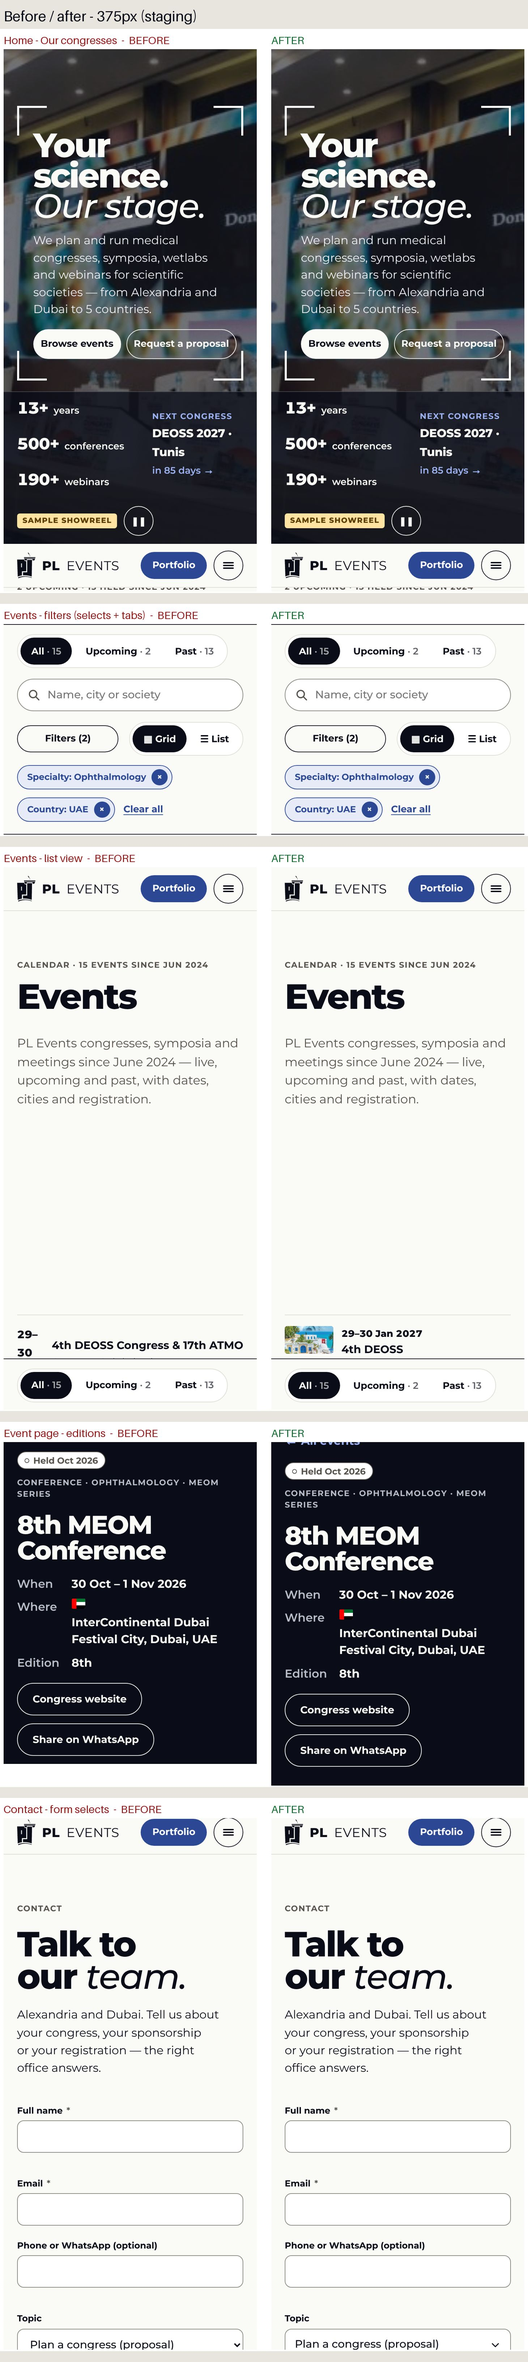
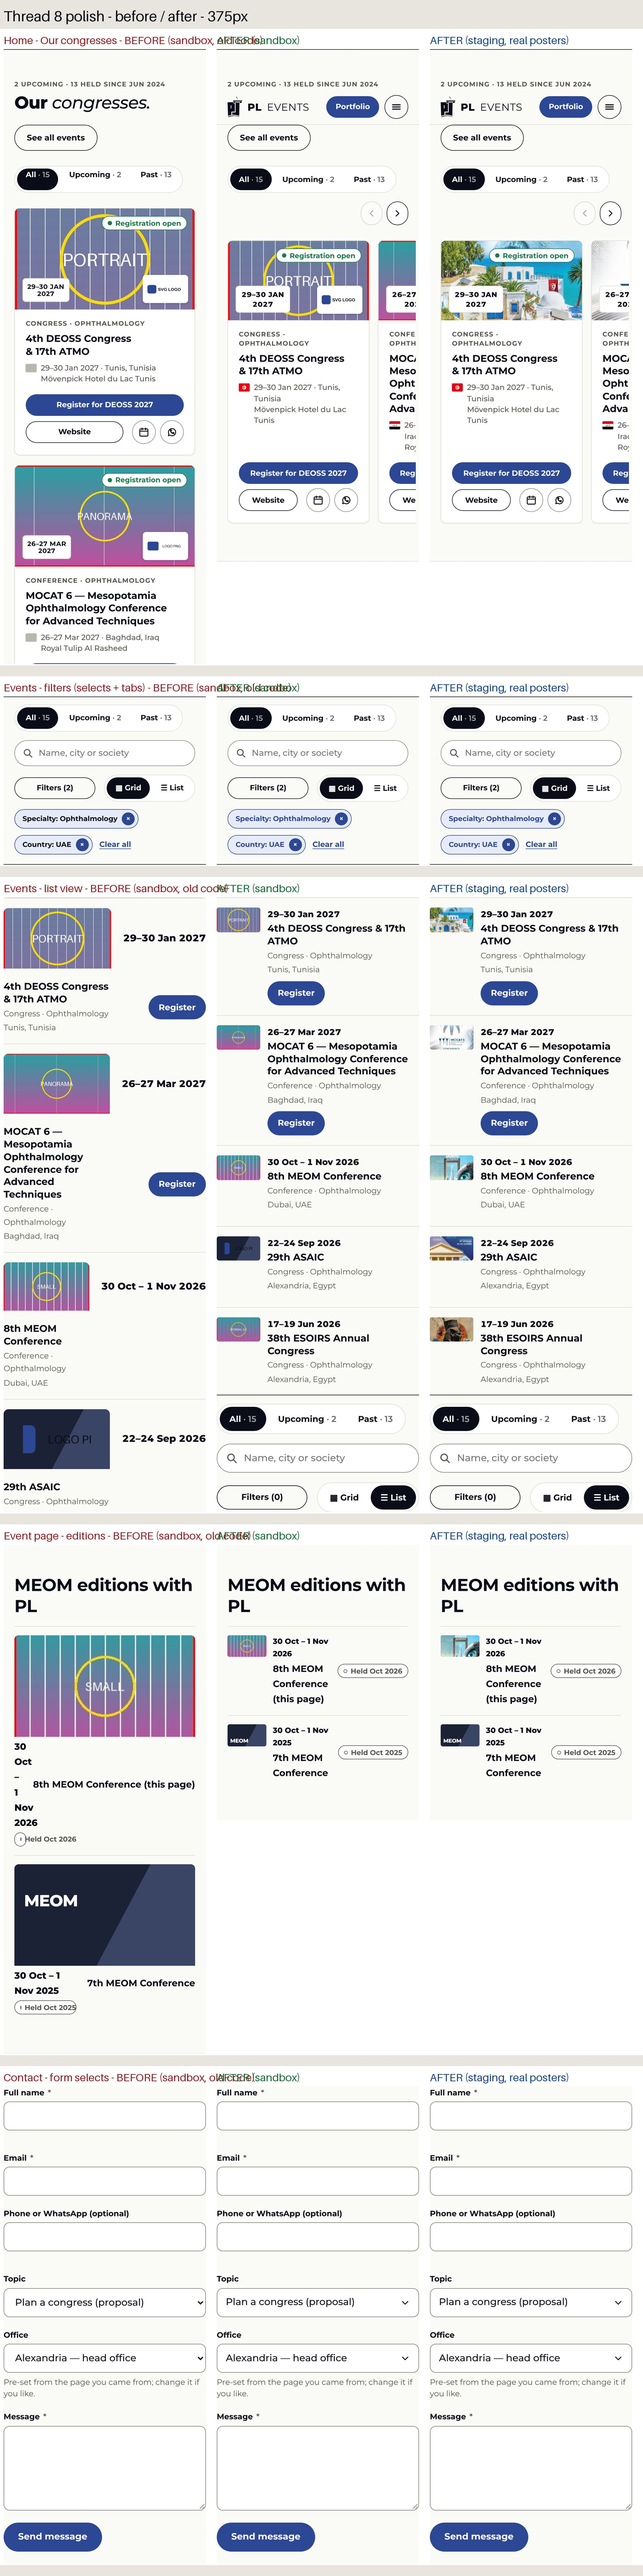
Thread 8 polish: own select chevron, centred tabs, list + editions thumbnails, no overlay on real posters, one-size date box, Home manual row (replaces 3.4a H3), iris CLS fix; decision A (only congresses + conferences count, 15 -> 13); docs + before/after
Claude-Session: https://claude.ai/code/session_01EKJkHzP4dRvL7ACMynXApJ

diff --git a/wp-content/themes/hello-pl-child/assets/css/pl.css b/wp-content/themes/hello-pl-child/assets/css/pl.css
@@ -601,13 +601,16 @@ html.pl-iris #iris { transform: scale(.25); }
 /* 2. List rows + event editions: a 16:9 poster thumbnail beside the date (real poster or the
    series' typographic poster in miniature). On phones: thumb | date over name | badge/actions
    (also fixes the editions rows that pushed the badge 43px off a 375px screen). */
-.pl .poster.mini { display: block; width: 120px; aspect-ratio: 16 / 9; border-radius: 6px; flex: none; }
+.pl .poster.mini { display: block; width: 112px; aspect-ratio: 16 / 9; border-radius: 6px; flex: none; }
 .pl .poster.mini .pw { left: 8px; right: 8px; top: auto; bottom: 7px; font-size: 15px; line-height: 1; letter-spacing: -.02em; }
 .pl .poster.mini .pw.long { font-size: 11px; }
 .pl .poster.mini::after { display: none; }
-.pl .erow.r-ev { grid-template-columns: 120px 200px minmax(0, 1fr) 180px 150px auto; }
+.pl .erow.r-ev { grid-template-columns: 112px max-content minmax(0, 1fr) 150px 140px auto; column-gap: 18px; }
+.pl .erow.r-ev .r-dt { white-space: nowrap; font-size: 15px !important; }
+.pl .erow.r-ev .r-pl { font-size: 13px !important; }
 .pl .erow.erow-ed { grid-template-columns: 120px 200px minmax(0, 1fr) auto; }
-@media (max-width: 1023px) and (min-width: 768px) { .pl .erow.r-ev { grid-template-columns: 120px 150px minmax(0, 1fr) auto; } .pl .erow.r-ev .r-pl, .pl .erow.r-ev .r-bd { display: none !important; } }
+@media (max-width: 1279px) and (min-width: 1024px) { .pl .erow.r-ev { grid-template-columns: 112px max-content minmax(0, 1fr) 140px auto; } .pl .erow.r-ev .r-pl { display: none !important; } .pl .erow.r-ev .r-nm .m-only { display: revert; } }
+@media (max-width: 1023px) and (min-width: 768px) { .pl .erow.r-ev { grid-template-columns: 96px max-content minmax(0, 1fr) auto; column-gap: 14px; } .pl .erow.r-ev .poster.mini { width: 96px; } .pl .erow.r-ev .r-pl, .pl .erow.r-ev .r-bd { display: none !important; } .pl .erow.r-ev .r-nm .m-only { display: revert; } }
 @media (max-width: 767px) {
   .pl .poster.mini { width: 72px; border-radius: 4px; }
   .pl .poster.mini .pw { font-size: 10px; left: 5px; right: 5px; bottom: 5px; }
@@ -616,7 +619,8 @@ html.pl-iris #iris { transform: scale(.25); }
   .pl .erow.r-ev .r-th, .pl .erow.erow-ed .r-th { grid-row: span 2; align-self: start; }
   .pl .erow.r-ev .r-dt, .pl .erow.erow-ed .r-dt { grid-column: 2; font-size: 14px !important; }
   .pl .erow.r-ev .r-nm { grid-column: 2; }
-  .pl .erow.r-ev .r-ac { grid-column: 3; grid-row: 1 / span 2; }
+  .pl .erow.r-ev { grid-template-columns: 72px minmax(0, 1fr); }
+  .pl .erow.r-ev .r-ac { grid-column: 2; justify-content: flex-start !important; margin-top: 6px; }
   .pl .erow.erow-ed > a { grid-column: 2; }
   .pl .erow.erow-ed > .badge { grid-column: 3; grid-row: 1 / span 2; }
 }

diff --git a/wp-content/themes/hello-pl-child/assets/css/src/wp.css b/wp-content/themes/hello-pl-child/assets/css/src/wp.css
@@ -209,13 +209,16 @@ html.pl-iris #iris { transform: scale(.25); }
 /* 2. List rows + event editions: a 16:9 poster thumbnail beside the date (real poster or the
    series' typographic poster in miniature). On phones: thumb | date over name | badge/actions
    (also fixes the editions rows that pushed the badge 43px off a 375px screen). */
-.pl .poster.mini { display: block; width: 120px; aspect-ratio: 16 / 9; border-radius: 6px; flex: none; }
+.pl .poster.mini { display: block; width: 112px; aspect-ratio: 16 / 9; border-radius: 6px; flex: none; }
 .pl .poster.mini .pw { left: 8px; right: 8px; top: auto; bottom: 7px; font-size: 15px; line-height: 1; letter-spacing: -.02em; }
 .pl .poster.mini .pw.long { font-size: 11px; }
 .pl .poster.mini::after { display: none; }
-.pl .erow.r-ev { grid-template-columns: 120px 200px minmax(0, 1fr) 180px 150px auto; }
+.pl .erow.r-ev { grid-template-columns: 112px max-content minmax(0, 1fr) 150px 140px auto; column-gap: 18px; }
+.pl .erow.r-ev .r-dt { white-space: nowrap; font-size: 15px !important; }
+.pl .erow.r-ev .r-pl { font-size: 13px !important; }
 .pl .erow.erow-ed { grid-template-columns: 120px 200px minmax(0, 1fr) auto; }
-@media (max-width: 1023px) and (min-width: 768px) { .pl .erow.r-ev { grid-template-columns: 120px 150px minmax(0, 1fr) auto; } .pl .erow.r-ev .r-pl, .pl .erow.r-ev .r-bd { display: none !important; } }
+@media (max-width: 1279px) and (min-width: 1024px) { .pl .erow.r-ev { grid-template-columns: 112px max-content minmax(0, 1fr) 140px auto; } .pl .erow.r-ev .r-pl { display: none !important; } .pl .erow.r-ev .r-nm .m-only { display: revert; } }
+@media (max-width: 1023px) and (min-width: 768px) { .pl .erow.r-ev { grid-template-columns: 96px max-content minmax(0, 1fr) auto; column-gap: 14px; } .pl .erow.r-ev .poster.mini { width: 96px; } .pl .erow.r-ev .r-pl, .pl .erow.r-ev .r-bd { display: none !important; } .pl .erow.r-ev .r-nm .m-only { display: revert; } }
 @media (max-width: 767px) {
   .pl .poster.mini { width: 72px; border-radius: 4px; }
   .pl .poster.mini .pw { font-size: 10px; left: 5px; right: 5px; bottom: 5px; }
@@ -224,7 +227,8 @@ html.pl-iris #iris { transform: scale(.25); }
   .pl .erow.r-ev .r-th, .pl .erow.erow-ed .r-th { grid-row: span 2; align-self: start; }
   .pl .erow.r-ev .r-dt, .pl .erow.erow-ed .r-dt { grid-column: 2; font-size: 14px !important; }
   .pl .erow.r-ev .r-nm { grid-column: 2; }
-  .pl .erow.r-ev .r-ac { grid-column: 3; grid-row: 1 / span 2; }
+  .pl .erow.r-ev { grid-template-columns: 72px minmax(0, 1fr); }
+  .pl .erow.r-ev .r-ac { grid-column: 2; justify-content: flex-start !important; margin-top: 6px; }
   .pl .erow.erow-ed > a { grid-column: 2; }
   .pl .erow.erow-ed > .badge { grid-column: 3; grid-row: 1 / span 2; }
 }

diff --git a/docs/Roadmap-Checklist.md b/docs/Roadmap-Checklist.md
@@ -4,7 +4,7 @@
 > **Threads:** one thread per group below (not per step). Open a new thread early if the current one gets long; the Step Summaries in the Project carry the context.
 > Last updated: 6 Nov 2026 (Thread 8)
 
-**Now:** end of Thread 8 (6 Nov 2026). ✅ 4.5 Forms · ✅ 5.1 Final copy · ✅ 5.3 SEO (301 map ready for launch) · ✅ hero fix + image fit (every image fits its frame) · ⏳ 4.4: only Sara's phone-check result is missing · open decision: "Counts as a congress" for symposium + forum (A/B) → **Next: Thread 9 — Step 6.1 Independent QA** (5.2 data entry is PL's, after the reveal).
+**Now:** end of Thread 8 (6 Nov 2026). ✅ 4.5 Forms · ✅ 5.1 Final copy · ✅ 5.3 SEO (301 map ready for launch) · ✅ hero fix + image fit + UI polish (selects, tabs, list thumbnails, Home row) · ✅ decision A: only congresses + conferences count (15 → 13) · ⏳ 4.4: only Sara's phone-check result is missing → **Next: Thread 9 — Step 6.1 Independent QA** (5.2 data entry is PL's, after the reveal).
 
 ---
 
@@ -25,12 +25,10 @@
 Open **claude.ai/code** → repo `SaraAmrousy/pl-events` (branch `main`) → environment `pl-events`.
 ```
 Thread 9 — Phase 6 QA & launch (6.1–6.3) — Claude Code.
-اقرا CLAUDE.md وبعدين docs/PL-Events-Project-Instructions.md و docs/Roadmap-Checklist.md و docs/Step-4.4-Pages.md و docs/Step-4.4-Image-Fit.md و docs/Step-5.1-Final-Copy.md و docs/Step-5.3-SEO.md.
-الأول قفّل اللي فاضل:
-1. 4.4 — نتيجة فحص الموبايل: [اكتبي النتيجة هنا].
-2. قرار "Counts as a congress" للـ symposium والـ forum: [A يتقفل / B يفضل].
-بعدها 6.1 — Independent QA (skill pl-content-qa): a11y + performance (375 / 768 / 1280، Full / Light / Reduced) + editor test على saraamrousy.net/pl (منها: رفع صورة صغيرة → الملاحظة الصفرا، وSVG).
-ثم 6.2 — Editor handover (دليل للموظف بالإنجليزي، خطوة بخطوة من wp-admin، فيه مقاسات الصور).
+اقرا CLAUDE.md وبعدين docs/PL-Events-Project-Instructions.md و docs/Roadmap-Checklist.md و docs/Step-4.4-Pages.md و docs/Step-4.4-Image-Fit.md و docs/Step-4.4-Polish.md و docs/Step-5.1-Final-Copy.md و docs/Step-5.3-SEO.md.
+الأول قفّل 4.4 — نتيجة فحص الموبايل (iPhone Safari + Android Chrome، ومعاها الـ filters في Safari): [اكتبي النتيجة هنا].
+بعدها 6.1 — Independent QA (skill pl-content-qa): a11y + performance (375 / 768 / 1280، Full / Light / Reduced) + editor test على saraamrousy.net/pl (منها: رفع صورة صغيرة → الملاحظة الصفرا، وSVG، وصف الـ Home بالكيبورد).
+ثم 6.2 — Editor handover (دليل للموظف بالإنجليزي، خطوة بخطوة من wp-admin، فيه مقاسات الصور وEvent types / Counts as a congress).
 6.3 — Launch checklist: اكتبه بس (فيه deploy/launch/redirects.csv + check-redirects.py، والـ 3 slugs الـ TBC من wp-sitemap.xml وقت الإطلاق)، ومتلمسش plevents.org قبل ما أوافق على كل خطوة.
 الـ staging يفضل noindex، والإيميلات كلها بتروحلي أنا. متكتبش أي باسورد في الشات.
 ```
@@ -65,7 +63,7 @@ Thread 9 — Phase 6 QA & launch (6.1–6.3) — Claude Code.
 - [x] **4.1 pl-events-core Plugin** (البلجن) — ✅ 5 Nov 2026 · on staging + seeded (15 / 7 / 5 checked live); editor test passed in the sandbox · Summary: `docs/Step-4.1-Plugin.md` · `pl-events-data-wp` · SCF; follow "Built to grow" (2.2 §8); test page + CPT sharing the `events` slug; new pieces from 3.1/3.4a/3.4b (`[pl_live_ribbon]`, `[pl_next_event layout="strip"]`, `[pl_company field=…]`, `[pl_stats layout="line|sponsor_line"]`, calendar search/Type/Grid–List, tabs All · Live now · Upcoming · Past with `default` attribute, `[pl_story layout="sticky explore"]`, `[pl_services layout="zigzag"]`, event-page mini map). Seed from `claude/pl-data.json`. **No `[pl_help]` (3.4b P1), no saved-list module (3.4a H4).**
 - [x] **4.2 Child Theme & Global Styles** (الثيم والستايل العام) — ✅ 5 Nov 2026 · Summary: `docs/Step-4.2-Child-Theme.md` (prototype CSS built into the theme, self-hosted Montserrat, 5 motion modules, Elementor Globals, `[pl_hero]`) · `pl-events-data-wp` · Tokens + classes from the 3.2 Design System (+ 3.4a H7 button fix) + motion modules from 3.4b §5 (no ScrollTrigger pin; Lenis Home only; `@view-transition`); confirm Elementor Free custom Global Colors
 - [x] **4.3 Header & Footer** (الهيدر والفوتر) — ✅ 5 Nov 2026 · Summary: `docs/Step-4.3-Header-Footer.md` (UAE HFB templates with `[pl_site_header]` / `[pl_site_footer]`; sticky; keyboard-tested) · `pl-events-data-wp` · Header: Home · Events · Services · About · Careers · Contact + Request a proposal + Portfolio (3.4a H5–H6)
-- [ ] **4.4 Pages in Elementor** (بناء الصفحات) — ⏳ built + live; LiteSpeed Cache on (purge from pl-events-core, tested); hero fix ✅ 6 Nov (media fills the hero at every size, tested at 6 sizes × 3 motion contexts) · image fit ✅ 6 Nov (every image in a fixed frame: photos cover, logos contain, crops + srcset, soft size note in wp-admin, safe SVG — `docs/Step-4.4-Image-Fit.md`) · **open: Sara's iPhone/Android check result** · Summary: `docs/Step-4.4-Pages.md` · `pl-events-data-wp` · Pages exported as Elementor template JSON by Claude Code and imported (Elementor Free Templates › Import — confirm the JSON format on the installed version); tested locally, then on the staging folder (noindex); confirm Elementor Free background video (self-hosted MP4 + poster)
+- [ ] **4.4 Pages in Elementor** (بناء الصفحات) — ⏳ built + live; LiteSpeed Cache on (purge from pl-events-core, tested); hero fix ✅ 6 Nov (media fills the hero at every size, tested at 6 sizes × 3 motion contexts) · image fit ✅ 6 Nov (every image in a fixed frame: photos cover, logos contain, crops + srcset, soft size note in wp-admin, safe SVG — `docs/Step-4.4-Image-Fit.md`) · UI polish ✅ 6 Nov (own select chevron, centred tabs, list + editions thumbnails, no overlay on real posters, one-size date box, Home = manual horizontal row replacing 3.4a H3 grid, iris CLS 0.536 → 0.03; "Counts as a congress" = A, 15 → 13 — `docs/Step-4.4-Polish.md`) · **open: Sara's iPhone/Android check result (also glance at Events filters in Safari)** · Summary: `docs/Step-4.4-Pages.md` · `pl-events-data-wp` · Pages exported as Elementor template JSON by Claude Code and imported (Elementor Free Templates › Import — confirm the JSON format on the installed version); tested locally, then on the staging folder (noindex); confirm Elementor Free background video (self-hosted MP4 + poster)
 - [x] **4.5 Forms** (الفورمز) — ✅ 6 Nov 2026 · authenticated SMTP (WP Mail SMTP + mailbox pl-staging@), both forms delivered to Sara's inbox, CV attached; CV direct URLs blocked · Summary: `docs/Step-4.5-Forms.md` · Summary: `docs/Step-4.5-Forms.md` (Forminator Contact + Careers/CV, topic+office pre-fill confirmed in Free, routing by office, staging mail → Sara only with a hard safety net) · `pl-events-data-wp` · Confirm Forminator Free URL pre-fill for topic/office (2.1 P4)
 
 ## Phase 5 — Content & SEO (المحتوى والـ SEO)

diff --git a/docs/Step-4.4-Polish.md b/docs/Step-4.4-Polish.md
@@ -1,0 +1,79 @@
+# Step 4.4 — UI polish + "Counts as a congress" decision (Thread 8, 6 Nov 2026)
+
+**Status: ✅ live on staging.** Seven items from Sara's review on staging (screenshots, 5 Nov). **4.4 stays open** only for Sara's iPhone/Android check.
+
+## Decisions recorded
+| # | Decision | Before → after |
+|---|---|---|
+| D-T8-1 | **"Counts as a congress" = A**: only *Congress* and *Conference* count. *Symposium* and *Forum* are switched off on staging (PL Website › Event types). *Course, Wetlab, Workshop, Webinar* were already off. New types now start **off**. The seed defaults are changed too, so a reseed can't undo this. | **15 → 13 congresses.** Home stats line: "13 congresses". About yearly tallies: 2 → 6 → 11 → **13**. No longer counted: 4th Saudi Retina Symposium (SRS 2026) and 11th El Safwa Annual Forum. About H1 ("…to 5 countries") is unchanged, because it counts countries. This closes the 5.1 critique #1. |
+| D-T8-2 | **Home "Our congresses." is one horizontal row, scrolled by hand only. It never autoplays** (Sara's decision). This **replaces 3.4a H3** (6-card grid). | 6 cards in a grid → all cards of the tab in one row. |
+
+## What changed
+1. **Selects (dropdowns)** — every `<select>` on the site (Events filters, Contact/Careers forms):
+   - `appearance:none` plus our own chevron SVG: 1.5px stroke, the same as the field border, ink colour, 14px from the edge, `padding-right:44px`;
+   - the chevron turns blue on focus; light colour on dark sections;
+   - a Forminator rule was more specific and the sand-background rule used the `background` shorthand (which would wipe the chevron) — both fixed.
+2. **List view** — a 16:9 thumbnail before the date:
+   - it's the real poster, using the same crops/srcset as the cards; if there's no poster, the series' typographic poster in miniature;
+   - size: 112px on desktop, 96px on tablet, 72px on phones;
+   - the same thumbnails are on the event page's "editions with PL" rows.
+   - Layout at each width:
+     - 1280: thumb · date · name · place · badge · buttons.
+     - 1024: the place column hides; the place shows under the name.
+     - Phones: thumb on the left; date, name and place stacked; buttons under the name.
+     - Longest name now wraps to at most 3 lines (4 on tablet). It was 6.
+3. **Tabs** — one component everywhere (Home, Events, Grid/List): `inline-flex` + `align-items:center` + `height:40px` + `line-height:1` + `margin:0`. Measured: the text centre sits **0.0px** from the tab centre, Home and Events.
+4. **Cards:**
+   - an event with a real poster no longer shows the big series word (MEOM/DEOSS) or the edition/city text over the photo; only the badge and the date box stay (the event page poster too);
+   - **date box:** "30 OCT – 1 NOV" over "2026", same size (13px/800) and case for both lines. Examples: "29–30 JAN / 2027", "26 JUN / 2025", "30 DEC – 2 JAN / 2026–27".
+5. **Home row:**
+   - `[pl_upcoming layout="row" limit="0"]`;
+   - scroll-snap: 3 cards + a peek on desktop, 2 + a peek on tablet, 1 + a peek on phones;
+   - ← → buttons (`aria-label` "Previous"/"Next", `aria-controls`): disabled at either end, each click moves one card;
+   - swipe and trackpad work natively;
+   - Tab through the cards and the row follows the focus;
+   - the All/Upcoming/Past tabs filter the row and jump back to the first card (instantly, no glide);
+   - viewfinder brackets hold the card nearest the centre (Full only);
+   - Reduced motion: the buttons jump, no smooth scroll;
+   - no JS: a plain horizontally scrollable row; the buttons' space is reserved, so nothing jumps.
+6. **CLS fix found on the way:** Home on desktop (Full) had **CLS 0.536**. Cause: my hero fix removed the iris's inline geometry at the end of the opening, so the box jumped. The circle now keeps the size that covers the hero and is re-measured on resize. **CLS 0.536 → 0.029** (staging 0.032). Hero re-checked: the photo and the circle cover the hero after opening and after resizing to 1920×1080, 1190×575, 1440×700, 768×1024 and 375×667.
+
+## Tests (evidence)
+- **Row** (sandbox + staging, Chromium; 1280 Full, 1280 Reduced, 375):
+  - visible cards on load: "1.00 1.00 1.00 0.38" on desktop, "1.00 0.27" on phones;
+  - Previous is disabled at the start, Next is disabled at the end;
+  - Past tab: 13 cards, back to the start;
+  - keyboard focus on the 6th card is fully visible;
+  - viewfinder on in Full, off in Reduced and on phones;
+  - CLS: 0.029–0.032 in Full desktop, 0.001–0.003 in Reduced, 0.000 on phones.
+- **Selects:** Events and Contact both show `appearance:none`, `padding-right:44px` and the chevron.
+- **Image fit** still holds: 222/222 checks in the sandbox, 84/84 on staging, no sideways scroll at 375/768/1280.
+- **Data-layer tests:** all passed. Debug log clean.
+- **Browsers:** only Chromium runs in this sandbox (installing Firefox/WebKit here isn't allowed). The chevron uses standard CSS (`appearance:none` with `-webkit-`/`-moz-` prefixes plus a background SVG), which Safari and Firefox support. **Please glance at Events filters in Safari** during the phone check.
+- Screenshots (before = old code in the sandbox · after = sandbox · after = staging with PL's real posters): `docs/img/thread8-polish-375.jpg`, `docs/img/thread8-polish-1280.jpg`.
+
+## Files
+- Plugin:
+  - `templates/upcoming.php` (row layout)
+  - `templates/card-event.php` (no overlay on real posters, date box)
+  - `templates/event-page.php` (poster overlay, editions thumbnails)
+  - `templates/row-event.php` (thumbnail + column classes)
+  - `includes/class-pl-template.php` (`date_box()`, `thumb()`)
+  - `includes/services/class-pl-dates.php` (`tile()` format)
+  - `includes/class-pl-taxonomies.php` (decision A defaults)
+  - `assets/js/pl-events.js` (row buttons, ends, tab reset, focus)
+- Theme:
+  - `assets/css/src/wp.css` → `pl.css` (selects, tabs, date box, thumbnails, row)
+  - `assets/js/viewfinder.js` (row viewfinder)
+  - `assets/js/iris.js` (CLS fix)
+  - `inc/motion.php` (viewfinder on Home)
+- `tools/build-elementor.py` → `elementor/pl-home.json` (`layout="row"`).
+- On staging:
+  - plugin + theme deployed (safe swap);
+  - on Home, only the `[pl_upcoming]` shortcode was replaced inside the page;
+  - Symposium/Forum flags switched off;
+  - PL cache and LiteSpeed purged.
+
+## Critique
+1. The row hides its scrollbar. On desktop with a mouse (no trackpad), the buttons are the only cue. They sit next to the tabs, which is clear but small. If PL's editor finds them hard to spot, I can add a thin scrollbar.
+2. Long event names (MOCAT 6, PHLEBOEGYPT) still take 3 lines in the list. A short name per event (Series "Short name") would help; that's PL's call in 5.2.

diff --git a/docs/Step-4.4-Pages.md b/docs/Step-4.4-Pages.md
@@ -63,4 +63,5 @@ Open `https://saraamrousy.net/pl/` on **iPhone (Safari)** and an **Android phone
 ## Still open
 - **Hero fix (6 Nov, Thread 8)** — the photo stopped at the buttons and grey showed below. Cause: Elementor's `.elementor img{height:auto}` beat `.still{height:100%}`. Now the media is `inset:0` + `object-fit:cover` + `height:100%`. The iris shape is measured from the hero's live `getBoundingClientRect()` (on resize + ResizeObserver) and goes back to full-bleed when it opens. The header turns solid before the viewfinder brackets reach the logo. Tested at 1190×575, 1280×600, 1440×700, 1920×1080, 375×667, 768×1024 × Full / Light / Reduced, plus resizing the window, also mid-opening. LCP image unchanged. Before/after screenshots sent to Sara.
 - **Image fit (6 Nov, Thread 8)** — every image now sits in a fixed frame (photos cover, logos contain), with server crops + srcset, a soft size note in wp-admin and safe SVG. Details + screenshots: `docs/Step-4.4-Image-Fit.md`.
+- **UI polish (6 Nov, Thread 8)** — selects, tabs, list thumbnails, card posters + date box, Home manual row (replaces 3.4a H3), iris CLS fix, decision A (15 → 13 congresses). Details + before/after: `docs/Step-4.4-Polish.md`.
 - **Sara's phone check (iPhone Safari + Android Chrome)** — result not received yet ("[هكتبها هنا]" left empty in the Thread 8 message). 4.4 closes when it arrives.

diff --git a/docs/Step-5.1-Final-Copy.md b/docs/Step-5.1-Final-Copy.md
@@ -45,5 +45,5 @@ Sources changed: `tools/build-elementor.py` (About, Privacy copy → rebuilt `/e
 - **No meta description on any page**: Rank Math is active, so the plugin's own fallback steps aside, but Rank Math has no descriptions/templates set yet. 5.3: Rank Math titles + descriptions (≤ 155 chars), Event + Organization schema. Site title still "PL Events (staging)".
 
 ## Critique
-1. "Congresses" in the stats line also counts conferences, a symposium and a forum (all event types are set to "Counts as a congress"). True to the 2.2 rule, but a strict reader could object — the admin can switch a type off in PL Website › Event types.
+1. ✅ *Resolved 6 Nov 2026 (decision A, `docs/Step-4.4-Polish.md`): only congresses + conferences count, 15 → 13.* "Congresses" in the stats line also counts conferences, a symposium and a forum (all event types are set to "Counts as a congress"). True to the 2.2 rule, but a strict reader could object — the admin can switch a type off in PL Website › Event types.
 2. The page copy lives in the Elementor shortcode widgets; future copy edits there are manual for Sara (by design, 4.4-1).
